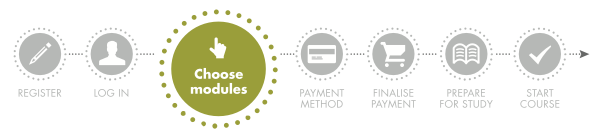
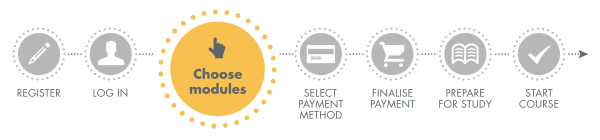
new prog graphic

diff --git a/example-pages-studenthome2.html b/example-pages-studenthome2.html
@@ -82,16 +82,19 @@ ident: true
 <div class="ou-block-showhide">
 <h2>Please choose your modules</h2>
 
-<p><a href="#"><img src="img/progression.png" alt="Choose your modules"></a></p>
+<p><a href="#"><img src="img/progression.png" alt="Choose your modules"> </a></p>
 
 <div class="box ou-warning">
-<p><strong>Action required!</strong> Please enrol on the module you want to start with and we’ll hold you a place. You’ll then need to arrange a payment method. To start studying in October, you’ll need to complete payment by September 15th.</p>
-<a class="ou-btn" href="#">Choose modules</a>
+<p><strong style="color:red">Action required!</strong> Please enrol on the module you want to start with and we’ll hold you a place. You’ll then need to arrange a payment method. To start studying in October, you’ll need to complete payment by September 15th.</p>
 </div>
 
-<p><smaller><strong>Got a question? We’re here to help</strong>. Call our specialist enrolment team <strong>0300 303 0092</strong>* (9am-8pm Monday-Friday and 9am-5pm on Saturdays) to sort out your module choices, your payment method or general questions about OU study.</smaller></p>
+<p>Got a question? We’re here to help. Call our specialist enrolment team <strong>0300 303 0092</strong>* (9am-8pm Monday-Friday and 9am-5pm on Saturdays) to sort out your module choices, your payment method or general questions about OU study.</p>
+
+<a class="ou-btn" href="#">Choose modules <i class="fa fa-caret-right"></i></a>
 
 <p><smaller>*This is our new number offered by Ofcom as an alternative to the more expensive 08 numbers, and are now included in inclusive minutes and free call packages.</smaller></p>
+
+
 
 
 </div> <!-- end ou-block-showhide -->

diff --git a/gui/images-and-objects.css b/gui/images-and-objects.css
@@ -127,6 +127,8 @@ a.ou-btn:hover {
 .box a.ou-btn {margin-bottom:0;}
 
 
+
+
 /*
 -------------------------------------------
 	Paragraphs
